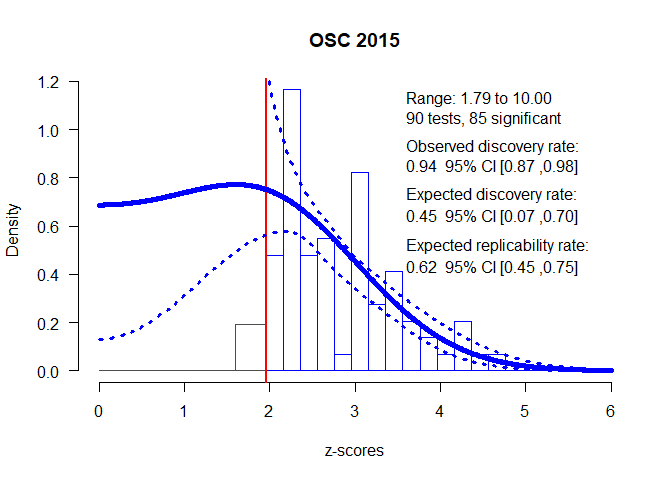
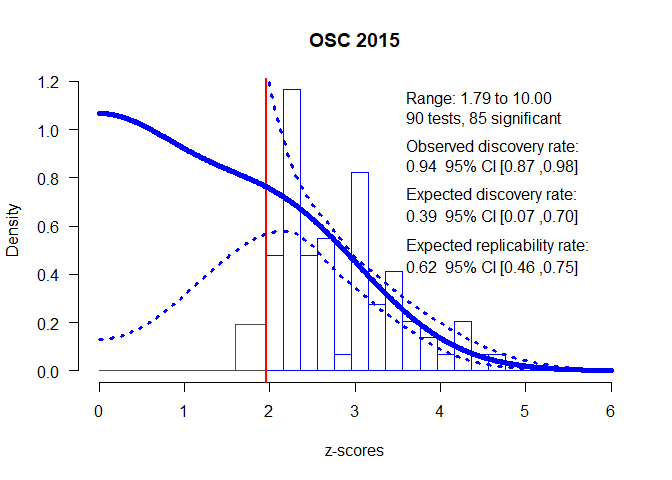
1.0.0

diff --git a/README.md b/README.md
@@ -21,14 +21,8 @@ validation studies, and limitations.
 
 ## Installation
 
-You can install the released version of zcurve from
-[CRAN](https://CRAN.R-project.org) with:
-
-``` r
-install.packages("zcurve")
-```
-
-And the development version from [GitHub](https://github.com/) with:
+You can install the current version of zcurve from
+[GitHub](https://github.com/) with:
 
 ``` r
 # install.packages("devtools")
@@ -39,7 +33,7 @@ devtools::install_github("FBartos/zcurve")
 
 Z-curve can be used to estimate expected replicability rate (ERR) and
 expected discovery rate (EDR) using z-scores from a set of significant
-studies. This is a reproduction of an example in Bartoš and Schimmack
+findings. This is a reproduction of an example in Bartoš and Schimmack
 (in preparation) where the z-curve is used to estimate ERR and EDR on a
 subset of studies used in reproducibility project (OSC, 2015). Only
 studies with non-ambiguous original outcomes are used - excluding
@@ -47,11 +41,16 @@ studies with “marginally significant” original findings, leading to 90
 studies. Out of these 90 studies, 35 were successfully replicated.
 
 We included the recoded z-scores from the 90 OSC studies as a dataset in
-the package (‘OSC.z’). The Expectation Maximization (EM) version of the
+the package (‘OSC.z’). The expectation-maximization (EM) version of the
 z-curve is implemented as the default method and can be fitted (with
 1000 bootstraps) and summarized using ‘zcurve and ’summary’ functions.
 
+The first argument to the function call is a vector of z-scores.
+Alternatively, a vector of two-sided p-values can be also used, by
+specifying “zcurve(p = p.values)”.
+
 ``` r
+set.seed(666)
 library(zcurve)
 
 fit <- zcurve(OSC.z)
@@ -60,37 +59,37 @@ summary(fit)
 #> Call:
 #> zcurve(z = OSC.z)
 #> 
-#> model: EM7 via EM
+#> model: EM via EM
 #> 
 #>     Estimate  l.CI  u.CI
-#> ERR    0.616 0.448 0.747
-#> EDR    0.448 0.072 0.700
+#> ERR    0.619 0.455 0.746
+#> EDR    0.391 0.075 0.698
 #> 
-#> Model converged in 59 + 63 iterations
-#> Q = -60.62, 95% CI[-70.68, -46.54]
+#> Model converged in 27 + 783 iterations
+#> Q = -60.61, 95% CI[-70.56, -46.30]
 ```
 
 More details from the fitted object can be extracted from the fitted
 object. For more statistics, as expected number of conducted studies,
-the file drawer ratio or SoriĂ„â€ˇ’s FDR specify ‘all = TRUE’.
+the file drawer ratio or Sorić’s FDR specify ‘all = TRUE’.
 
 ``` r
 summary(fit, all = TRUE)
 #> Call:
 #> zcurve(z = OSC.z)
 #> 
-#> model: EM7 via EM
+#> model: EM via EM
 #> 
 #>               Estimate  l.CI   u.CI
-#> ERR              0.616 0.448  0.747
-#> EDR              0.448 0.072  0.700
-#> Soric FDR        0.065 0.023  0.674
-#> File Drawer R    1.233 0.428 12.800
-#> Expected N         190   121   1173
-#> Missing N         -100 -1083    -31
+#> ERR              0.619 0.455  0.746
+#> EDR              0.391 0.075  0.698
+#> Soric FDR        0.082 0.023  0.653
+#> File Drawer R    1.560 0.433 12.400
+#> Expected N         218   122   1139
+#> Missing N          128    32   1049
 #> 
-#> Model converged in 59 + 63 iterations
-#> Q = -60.62, 95% CI[-70.68, -46.54]
+#> Model converged in 27 + 783 iterations
+#> Q = -60.61, 95% CI[-70.56, -46.30]
 ```
 
 For more information regarding the fitted model weights add ‘type =
@@ -101,19 +100,19 @@ summary(fit, type = "parameters")
 #> Call:
 #> zcurve(z = OSC.z)
 #> 
-#> model: EM7 via EM
+#> model: EM via EM
 #> 
 #>   Mean  Weight  l.CI  u.CI
-#> 1 0.000  0.021 0.000 0.428
-#> 2 1.000  0.069 0.000 0.440
-#> 3 2.000  0.697 0.001 0.998
-#> 4 3.000  0.213 0.000 0.643
+#> 1 0.000  0.056 0.000 0.417
+#> 2 1.000  0.005 0.000 0.429
+#> 3 2.000  0.734 0.002 0.998
+#> 4 3.000  0.205 0.000 0.639
 #> 5 4.000  0.000 0.000 0.000
 #> 6 5.000  0.000 0.000 0.000
 #> 7 6.000  0.000 0.000 0.000
 #> 
-#> Model converged in 59 + 63 iterations
-#> Q = -60.62, 95% CI[-70.68, -46.54]
+#> Model converged in 27 + 783 iterations
+#> Q = -60.61, 95% CI[-70.56, -46.30]
 ```
 
 The package also provides a convenient plotting method for the z-curve
@@ -128,8 +127,8 @@ plot(fit)
 The default plot can be further modified by using classic R plotting
 arguments as ‘xlab’, ‘ylab’, ‘main’, ‘cex.axis’, ‘cex.lab’. Furthermore,
 an annotation with the main test statistics can be added to the plot by
-specifying ‘annotation = TRUE’ and the piece-wise confidence intervals
-of the plot by specifying “CI = TRUE”. For more options regarding the
+specifying ‘annotation = TRUE’ and the pointwise confidence intervals of
+the plot by specifying “CI = TRUE”. For more options regarding the
 annotation see ’?plot.zcurve".
 
 ``` r
@@ -145,7 +144,7 @@ of the density method as implemented in Brunner and Schimmack (2019) can
 be fitted by adding ‘list(model = “KD1”)’ to the ‘control’ argument of
 ‘zcurve’.
 
-(We omit the bootstrap to speed the fitting case in this case)
+(We omit bootstrapping to speed the fitting process in this case)
 
 ``` r
 fit.KD2 <- zcurve(OSC.z, method = "density", bootstrap = FALSE)
@@ -177,23 +176,48 @@ summary(fit.KD1)
 #> MAE (*1e3) = 0.15
 ```
 
-The ‘control’ argument can be used to change the number of iteration or
+The ‘control’ argument can be used to change the number of iterations or
 reducing the convergence criterion in cases of non-convergence. It can
 be also used for constructing custom z-curves by changing the location
 of the mean components, their number or many other settings. However, it
 is important to bear in mind that those custom models need to be
-validated first on simulation studies prior their usage. For more
+validated first on simulation studies prior to their usage. For more
 information about the control settings see ‘?control\_EM’,
 ‘?control\_density’, and ‘?control\_density\_v1’.
+
+If you encounter any problems or bugs, please, contact me at
+f.bartos96\[at\]gmail.com or submit an issue at
+<https://github.com/FBartos/zcurve/issues>. If you like the package and
+use it in your work, please, cite it as:
+
+``` r
+citation(package = "zcurve")
+#> 
+#> To cite the zcurve package in publications use:
+#> 
+#> Bartoš F, Schimmack U (2020). "zcurve: An R Package for Fitting
+#> Z-curves." R package version 1.0.0, <URL:
+#> https://CRAN.R-project.org/package=zcurve>.
+#> 
+#> A BibTeX entry for LaTeX users is
+#> 
+#>   @Misc{,
+#>     title = {zcurve: An R Package for Fitting Z-curves},
+#>     author = {František Bartoš and Ulrich Schimmack},
+#>     year = {2020},
+#>     note = {R package version 1.0.0},
+#>     url = {https://CRAN.R-project.org/package=zcurve},
+#>   }
+```
 
 ## Sources
 
 Bartoš F., & Schimmack U. (in preparation). Z-Curve2.0: Estimating
 Replication Rates and Discovery Rates.
 
-Brunner J. & Schimmack U. (2019). Estimating population mean power under
-conditions of heterogeneity and selection for significance.
-Meta-Psychology, 3.
+Brunner J. & Schimmack U. (in press). Estimating population mean power
+under conditions of heterogeneity and selection for significance.
+Meta-Psychology
 
 Open Science Collaboration. (2015). Estimating the reproducibility of
 psychological science. Science, 349(6251), aac4716.
